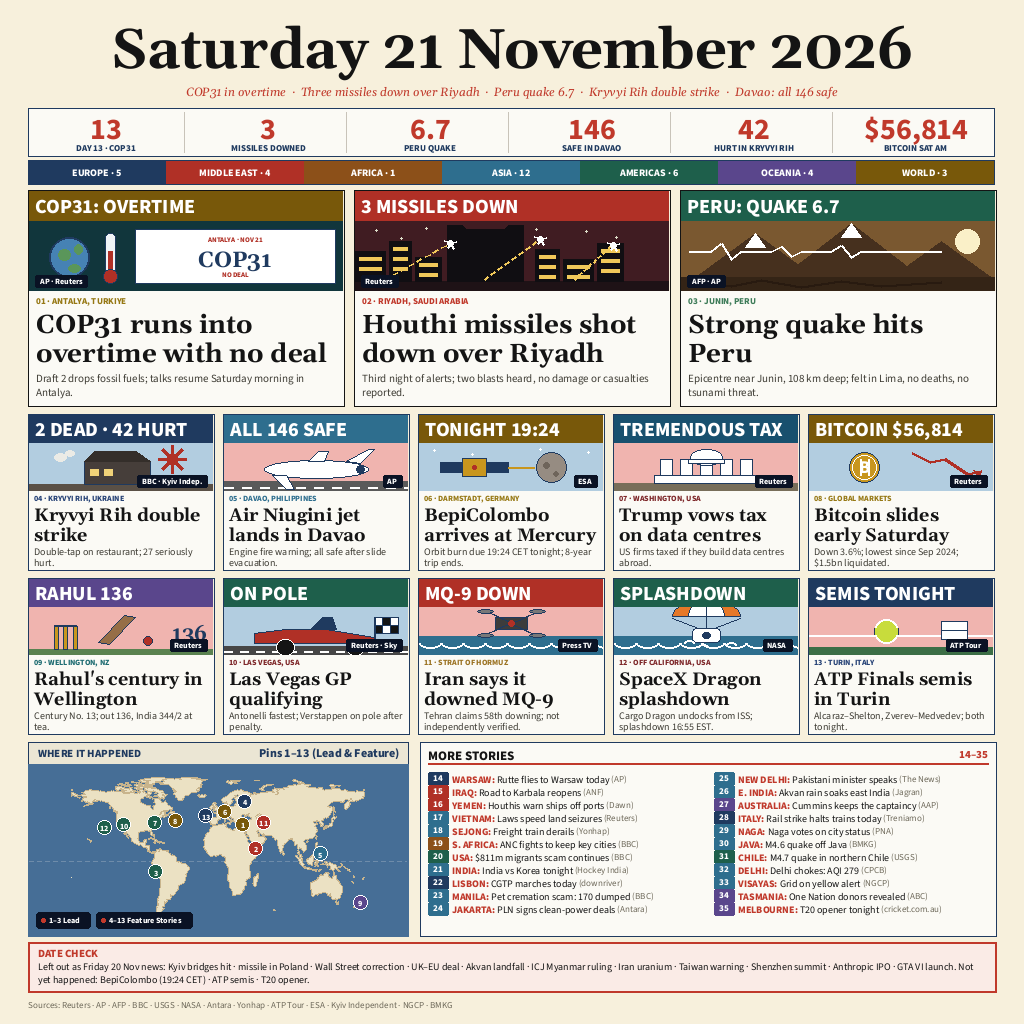
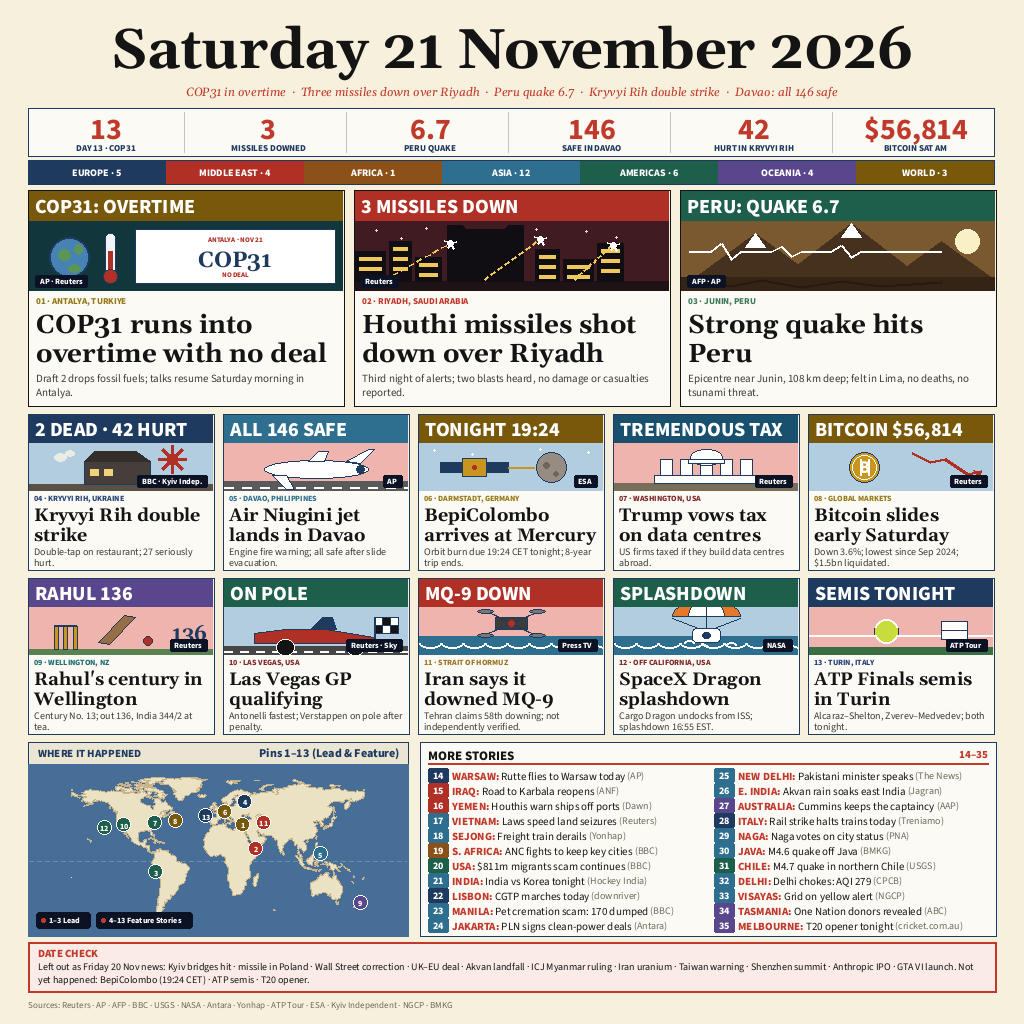
Perbesar teks MORE STORIES (Kevin 22 Nov 04:41): font kota/teks 10->11, sumber 9->10, chip 9->10, pitch 13->15, baris mulai y1+26; kotak terisi penuh, kolom tetap rata 11/11; isi brief tidak berubah

Changed region(s): [[0.6875, 0.75, 0.9375, 0.9062], [0.4062, 0.75, 0.6562, 0.9062]]

diff --git a/render_v2.py b/render_v2.py
@@ -30,6 +30,9 @@ Perubahan vs V1 (hanya 5 CHANGES FOR IMPROVE dari loss_report_a1.md):
 7. Revisi Kevin 22 Nov 04:38 WIB: hapus brief #25 Bangkok ("Anutin
    calls emergency meeting") supaya kolom MORE STORIES rata 11/11;
    brief 26-36 jadi 25-35; total 35/35 Sabtu; ASIA 12.
+8. Revisi Kevin 22 Nov 04:41 WIB: perbesar teks MORE STORIES supaya
+   mengisi kotak (font kota/teks 10->11, sumber 9->10, chip 9->10,
+   pitch 13->15, baris mulai y1+26); isi brief TIDAK berubah.
 
 YANG TIDAK BERUBAH: kerangka masthead + deck + strip + 3 hero + 10 kartu
 + peta + brief + DATE CHECK; kemurnian tanggal 35/35 Sabtu + angka
@@ -1153,25 +1156,27 @@ def draw_briefs(d):
     tt.text(d, x2 - 8, y1 + 4, "14\u201335", F(SS800, 11), RED, anchor="ra")
     d.line([(x1 + 8, y1 + 21), (x2 - 8, y1 + 21)], fill=RED, width=2)
     cw = (x2 - x1 - 16 - 12) // 2
-    f_city = F(SS800, 10)
-    f_txt = F(SS400, 10)
-    f_src = F(SS400, 9)
-    f_chip = F(SS800, 9)
+    f_city = F(SS800, 11)
+    f_txt = F(SS400, 11)
+    f_src = F(SS400, 10)
+    f_chip = F(SS800, 10)
+    chip_h = 14
+    pitch = 15
     per = [11, 11]
     idx = 0
     col_bottoms = []
     for c in range(2):
         cx = x1 + 8 + c * (cw + 12)
-        yy = y1 + 30
+        yy = y1 + 26
         for k in range(per[c]):
             n, city, t, src, region = BRIEFS[idx]
             idx += 1
             chip_w = 20
-            d.rounded_rectangle([cx, yy, cx + chip_w, yy + 13], radius=2,
+            d.rounded_rectangle([cx, yy, cx + chip_w, yy + chip_h], radius=2,
                                 fill=REGION_COLORS[region])
-            nb = d.textbbox((cx + chip_w // 2, yy + 6), str(n), font=f_chip,
+            nb = d.textbbox((cx + chip_w // 2, yy + chip_h // 2), str(n), font=f_chip,
                             anchor="mm")
-            d.text((cx + chip_w // 2, yy + 6), str(n), font=f_chip,
+            d.text((cx + chip_w // 2, yy + chip_h // 2), str(n), font=f_chip,
                    fill=WHITE, anchor="mm")
             tx = cx + chip_w + 4
             city_s = f"{city}: "
@@ -1188,8 +1193,8 @@ def draw_briefs(d):
             d.text((tx, yy), t, font=f_txt, fill=INK, anchor="la")
             d.text((tx + w_txt, yy), src_s, font=f_src, fill=GREY,
                    anchor="la")
-            tt.add((cx, yy, cx + total, yy + 13), f"brief{n}")
-            yy += 13
+            tt.add((cx, yy, cx + total, yy + chip_h), f"brief{n}")
+            yy += pitch
         col_bottoms.append(yy - 13)
     assert idx == 22, f"briefs terpasang {idx}, harus 22"
     assert max(col_bottoms) - min(col_bottoms) <= 20, (
